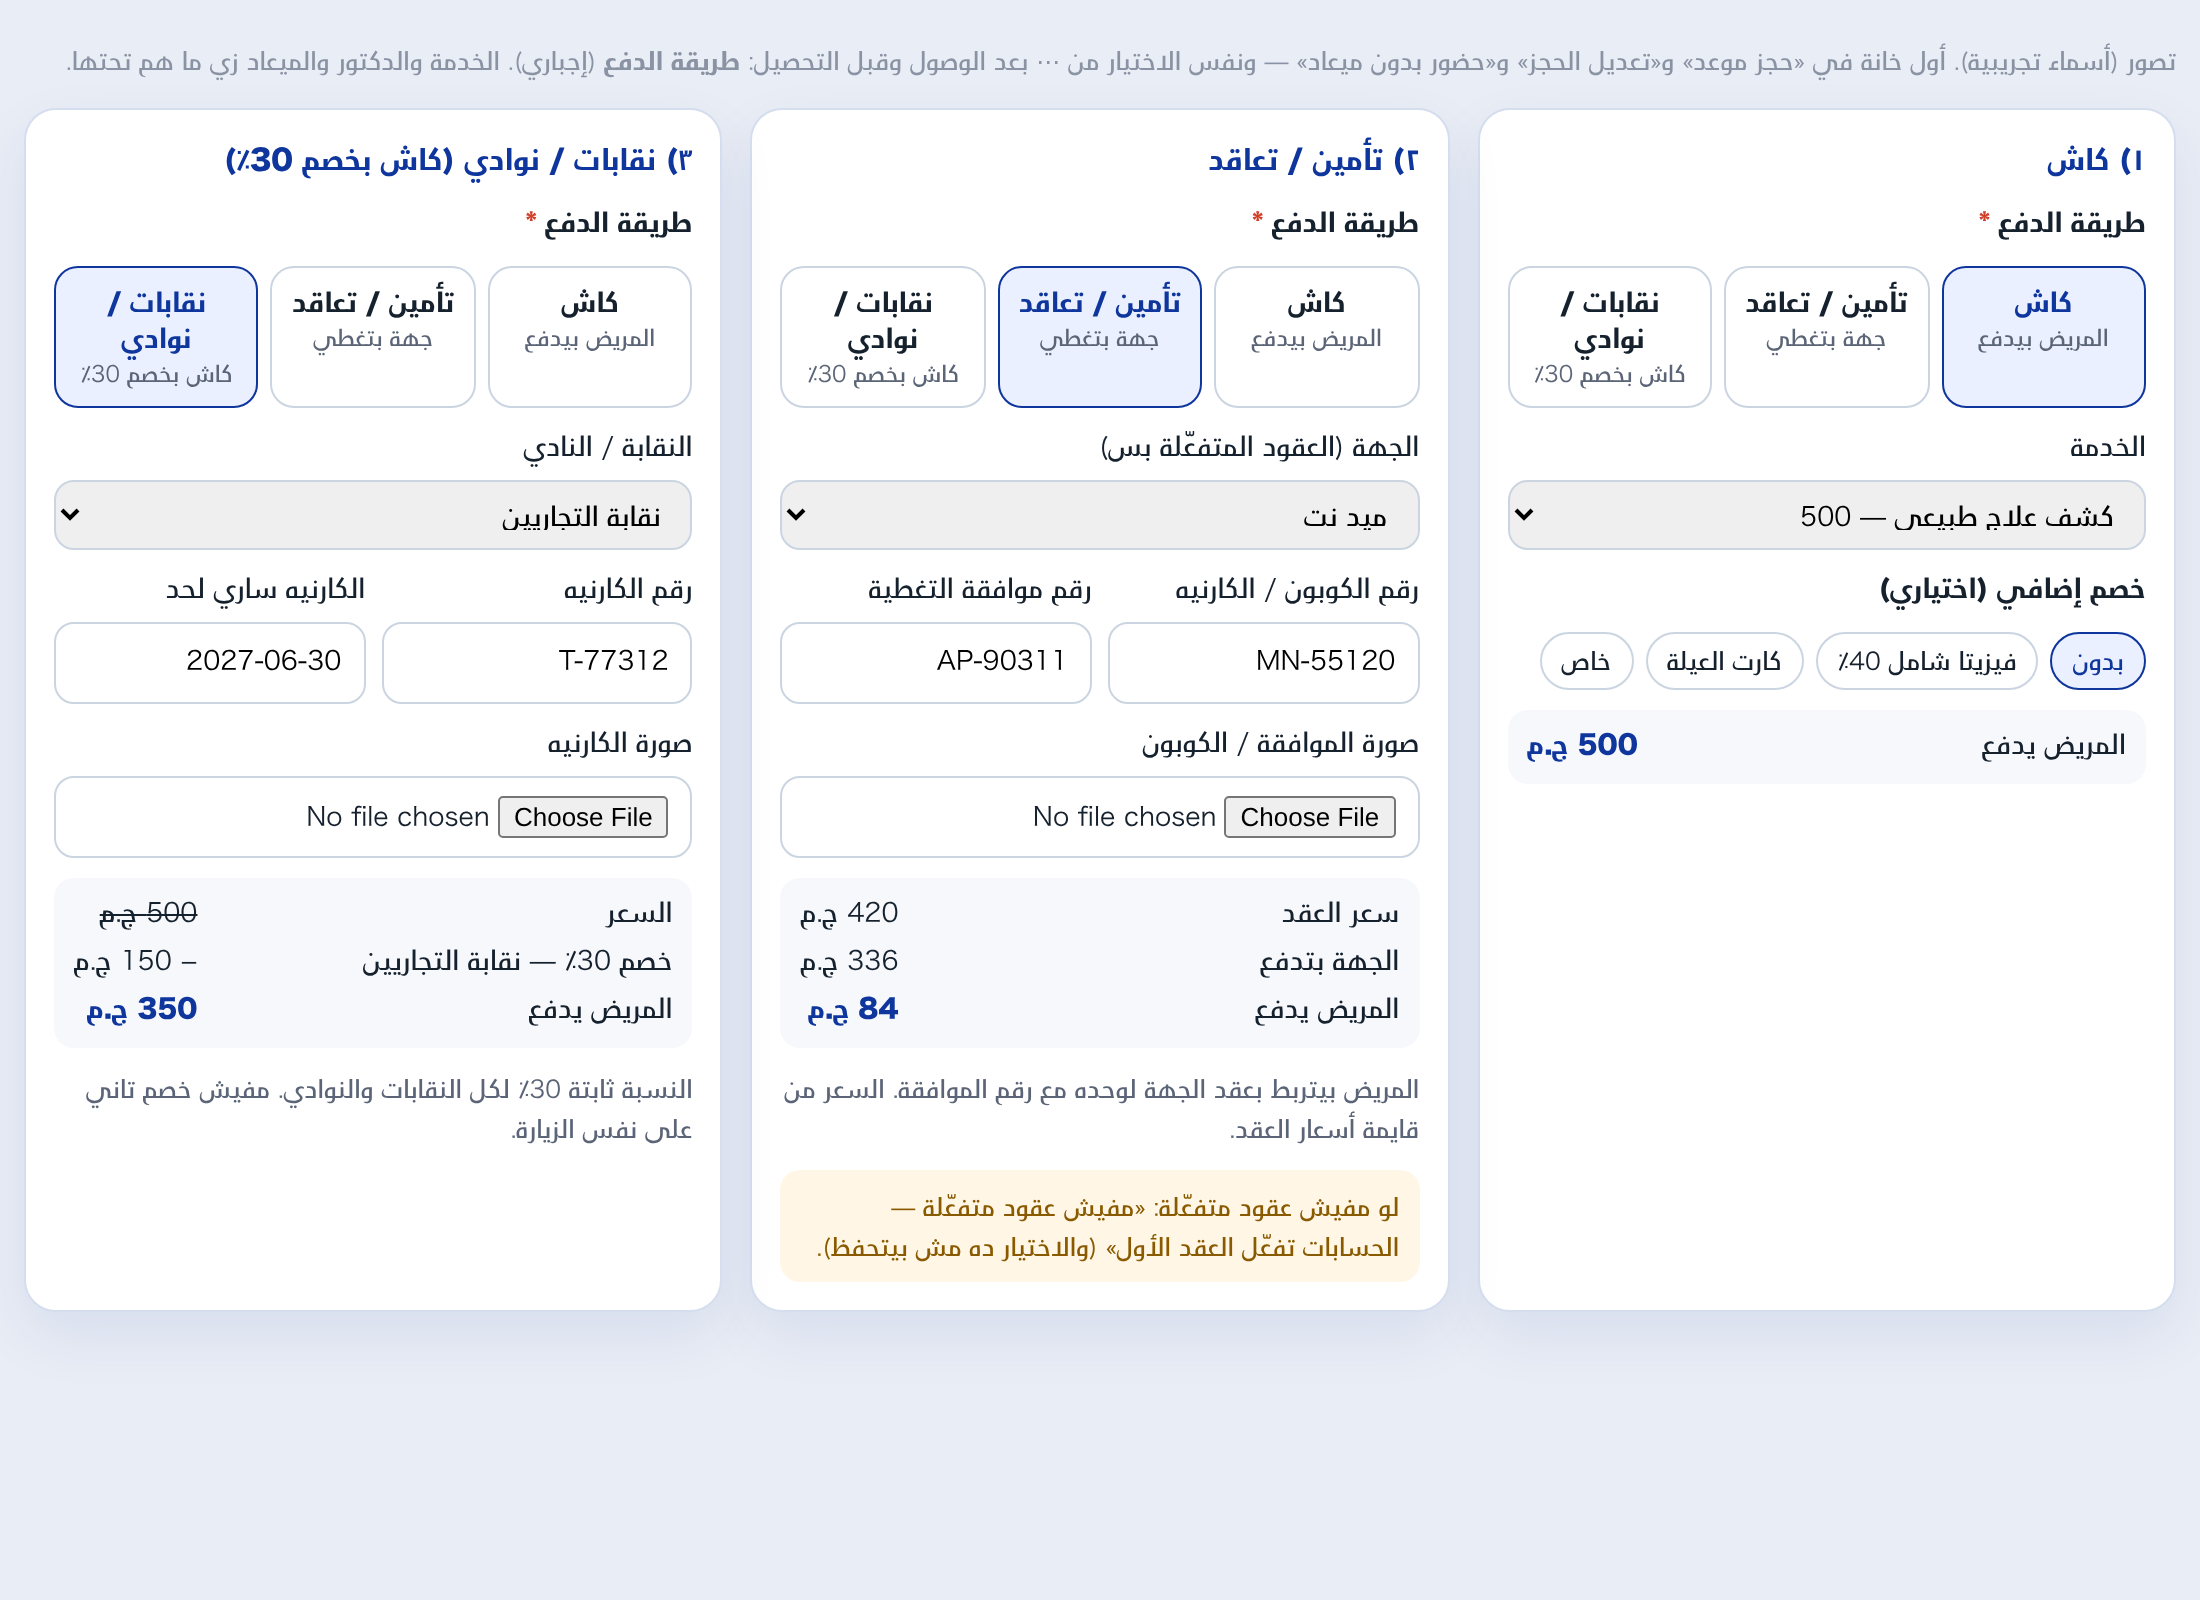
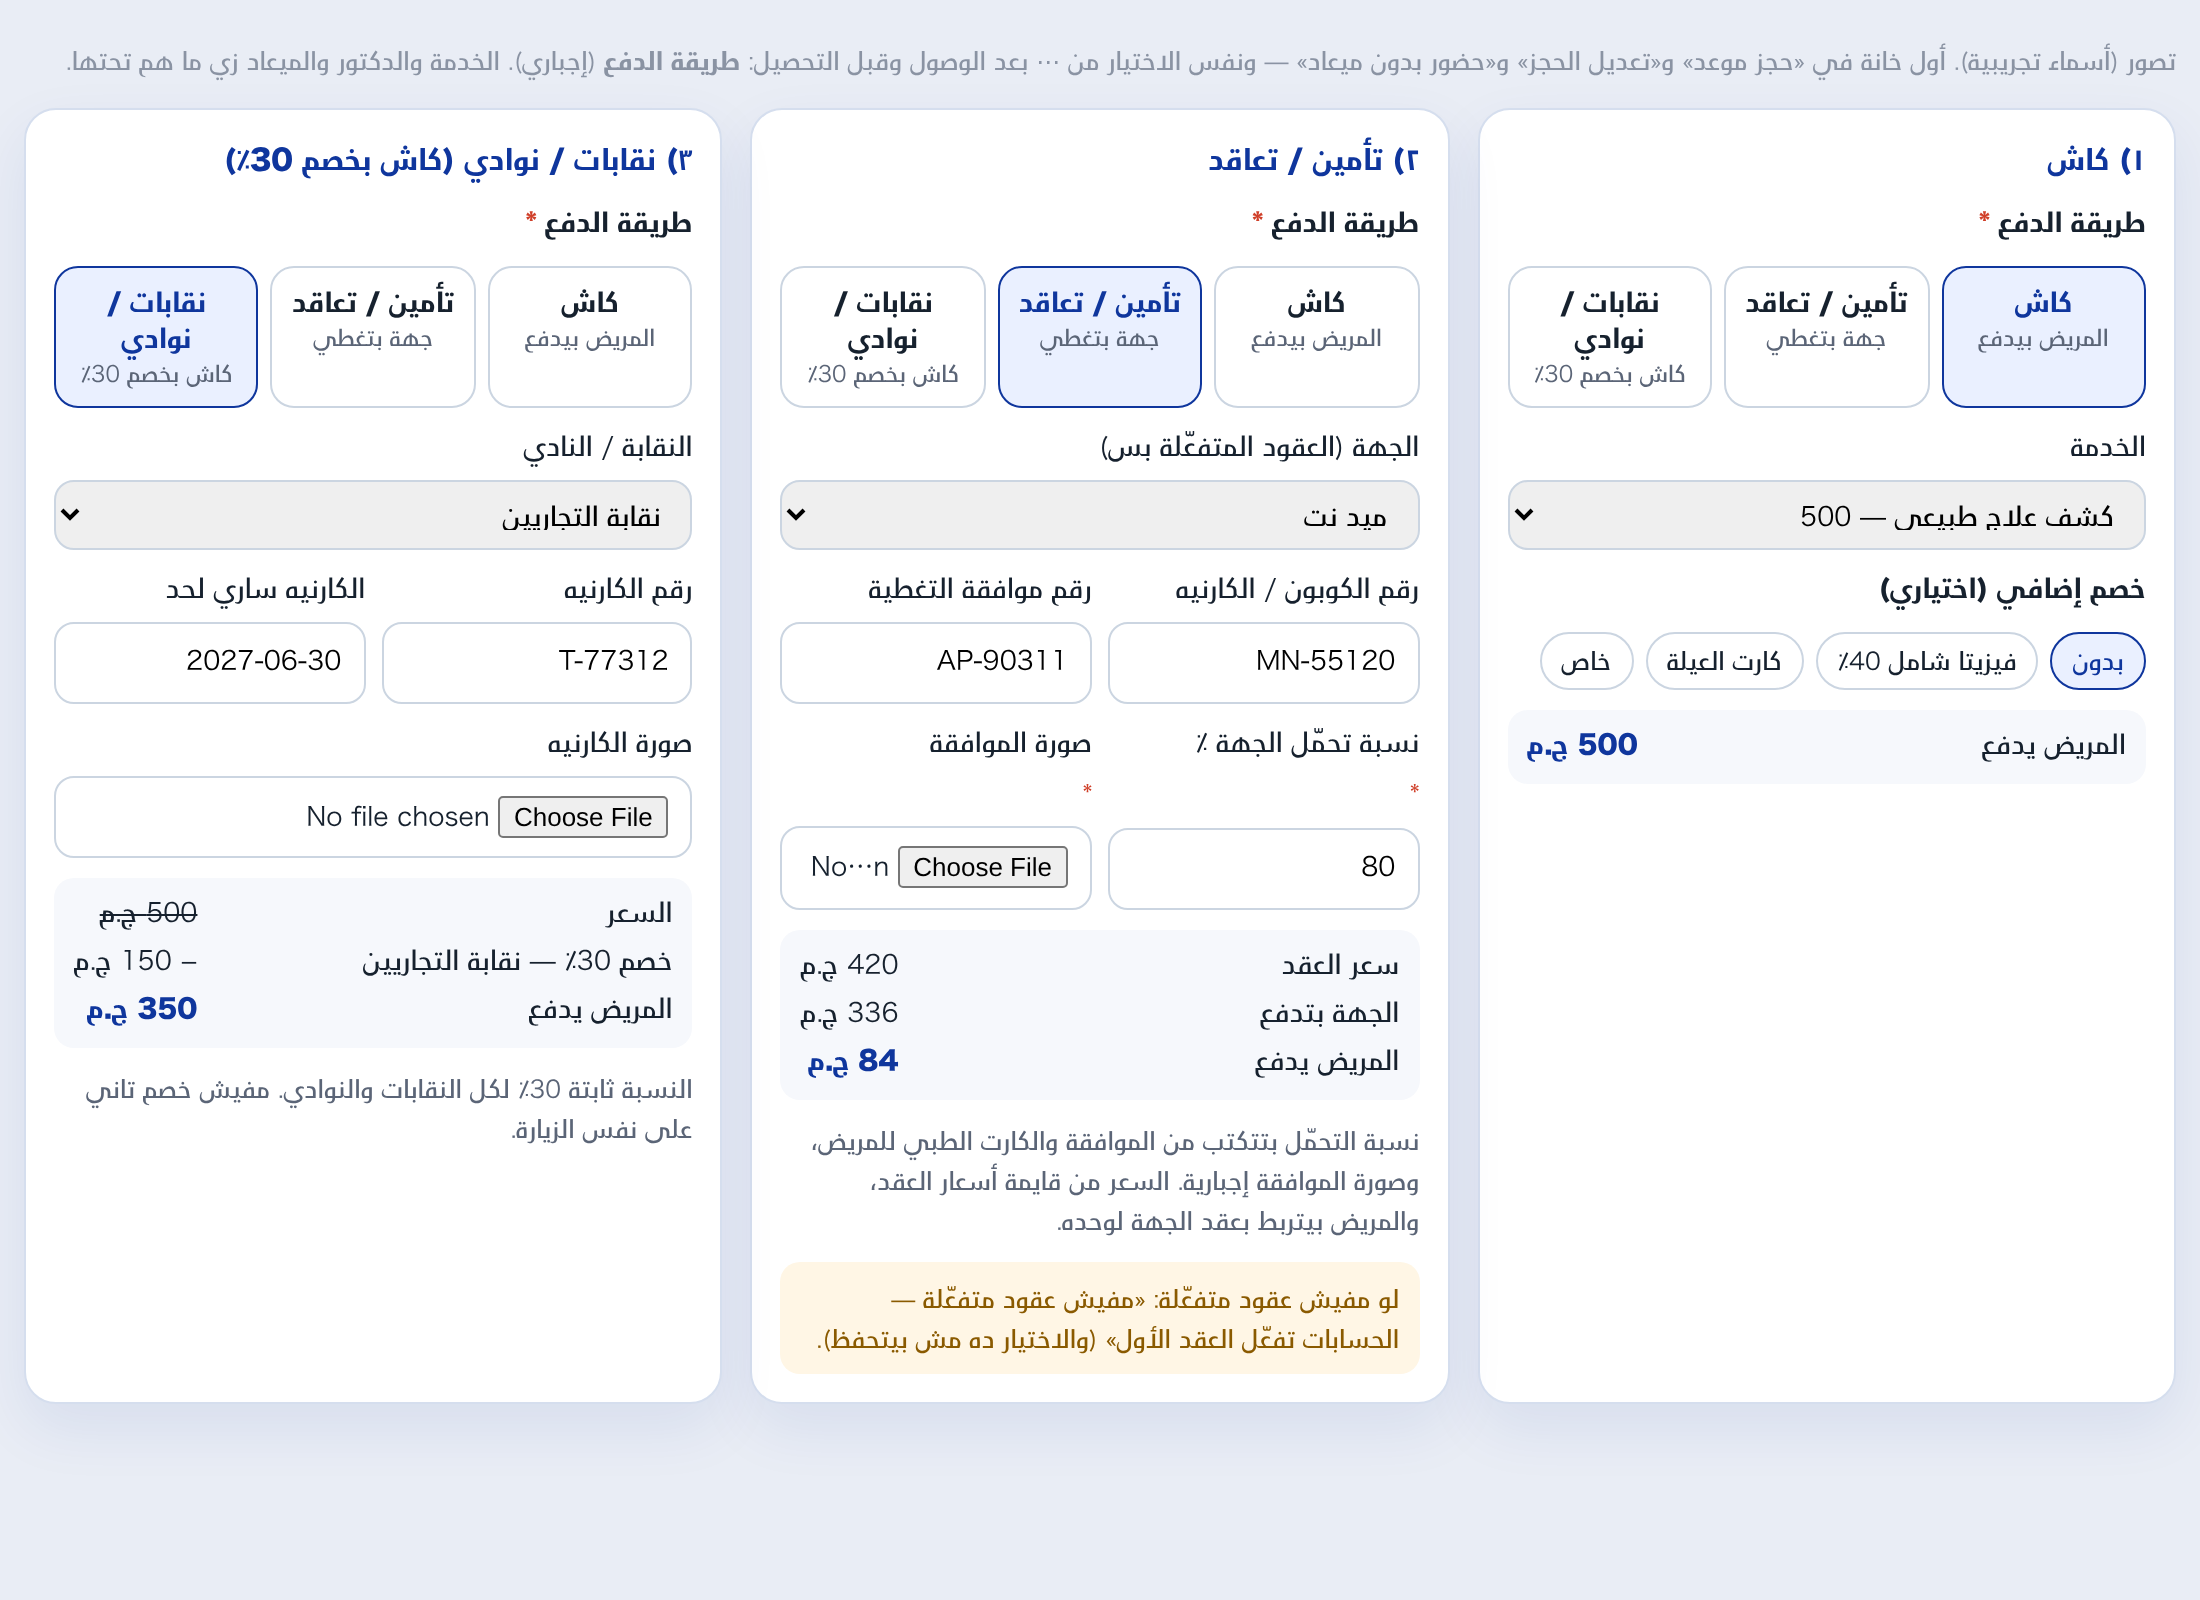
Mockup: coverage % typed from the approval + mandatory approval photo
Claude-Session: https://claude.ai/code/session_01UqVZHa1WNN8bEGUYBvTA8M

Changed region(s): [[0.0, 0.4375, 0.9891, 0.875], [0.4327, 0.4375, 0.4945, 0.4688]]

diff --git a/docs/ui-references/mockups/booking-payer-kind.html b/docs/ui-references/mockups/booking-payer-kind.html
@@ -34,9 +34,9 @@ body{background:#e9edf5;margin:0;padding:20px 12px;color:#16212E}
 <div class="seg"><span>كاش<small>المريض بيدفع</small></span><span class="on">تأمين / تعاقد<small>جهة بتغطي</small></span><span>نقابات / نوادي<small>كاش بخصم 30٪</small></span></div>
 <label class="f">الجهة (العقود المتفعّلة بس)<select><option>ميد نت</option><option>مصر هيلث كير</option><option>نقابة الأطباء — لائحة خاصة</option></select></label>
 <div class="two"><label class="f">رقم الكوبون / الكارنيه<input value="MN-55120"></label><label class="f">رقم موافقة التغطية<input value="AP-90311"></label></div>
-<label class="f">صورة الموافقة / الكوبون<input type="file"></label>
+<div class="two"><label class="f">نسبة تحمّل الجهة ٪ <span class="req">*</span><input value="80"></label><label class="f">صورة الموافقة <span class="req">*</span><input type="file"></label></div>
 <div class="sum"><span>سعر العقد</span><span>420 ج.م</span><span>الجهة بتدفع</span><span>336 ج.م</span><span>المريض يدفع</span><b>84 ج.م</b></div>
-<p class="note">المريض بيتربط بعقد الجهة لوحده مع رقم الموافقة. السعر من قايمة أسعار العقد.</p>
+<p class="note">نسبة التحمّل بتتكتب من الموافقة والكارت الطبي للمريض، وصورة الموافقة إجبارية. السعر من قايمة أسعار العقد، والمريض بيتربط بعقد الجهة لوحده.</p>
 <p class="empty">لو مفيش عقود متفعّلة: «مفيش عقود متفعّلة — الحسابات تفعّل العقد الأول» (والاختيار ده مش بيتحفظ).</p>
 </section>
 
